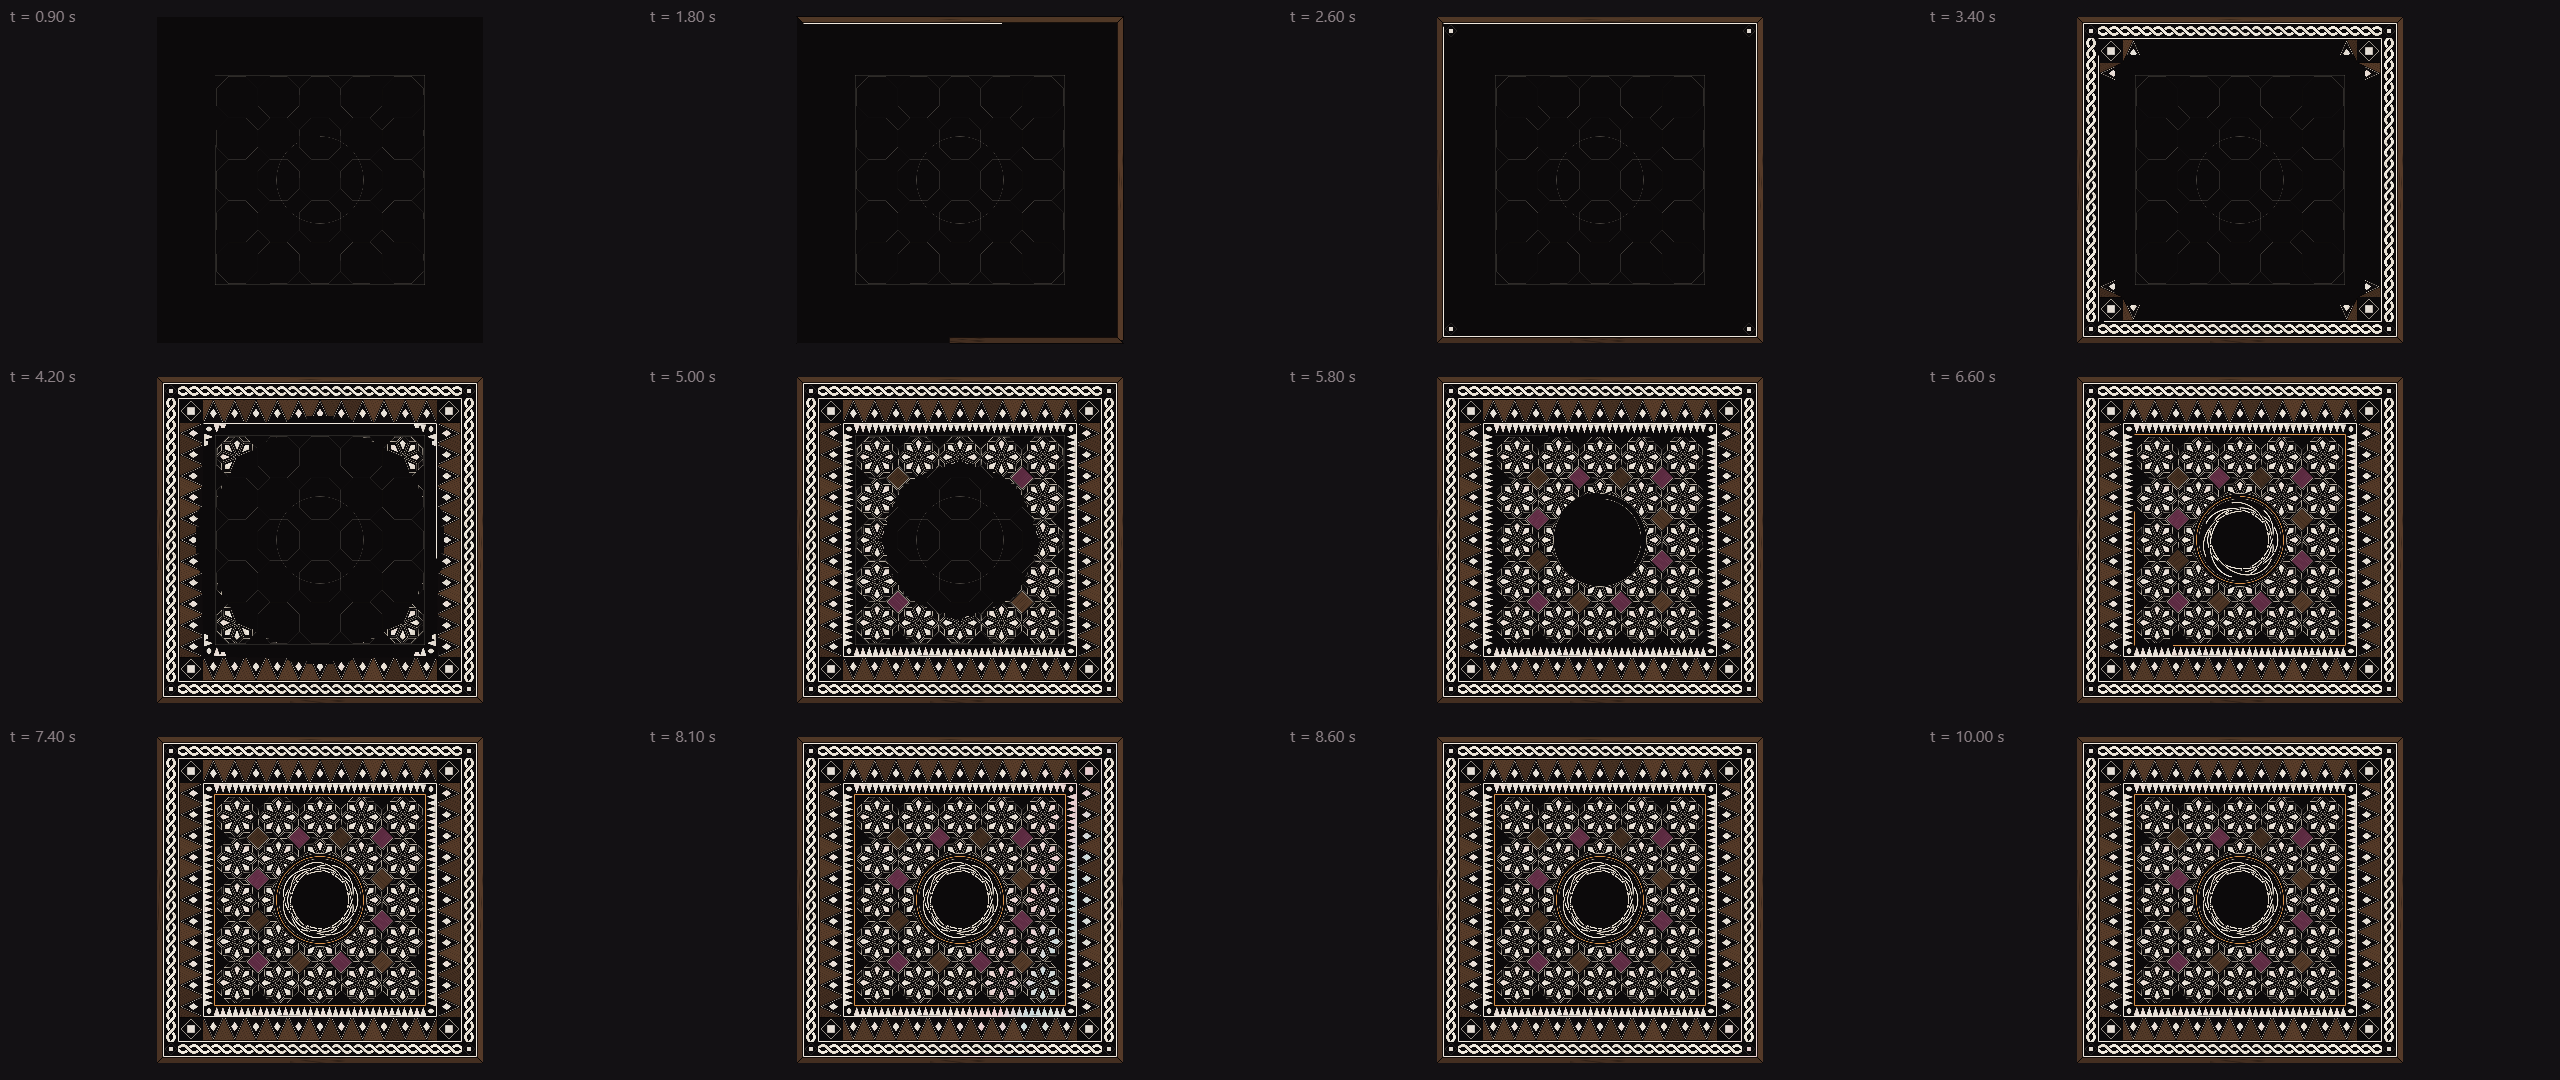
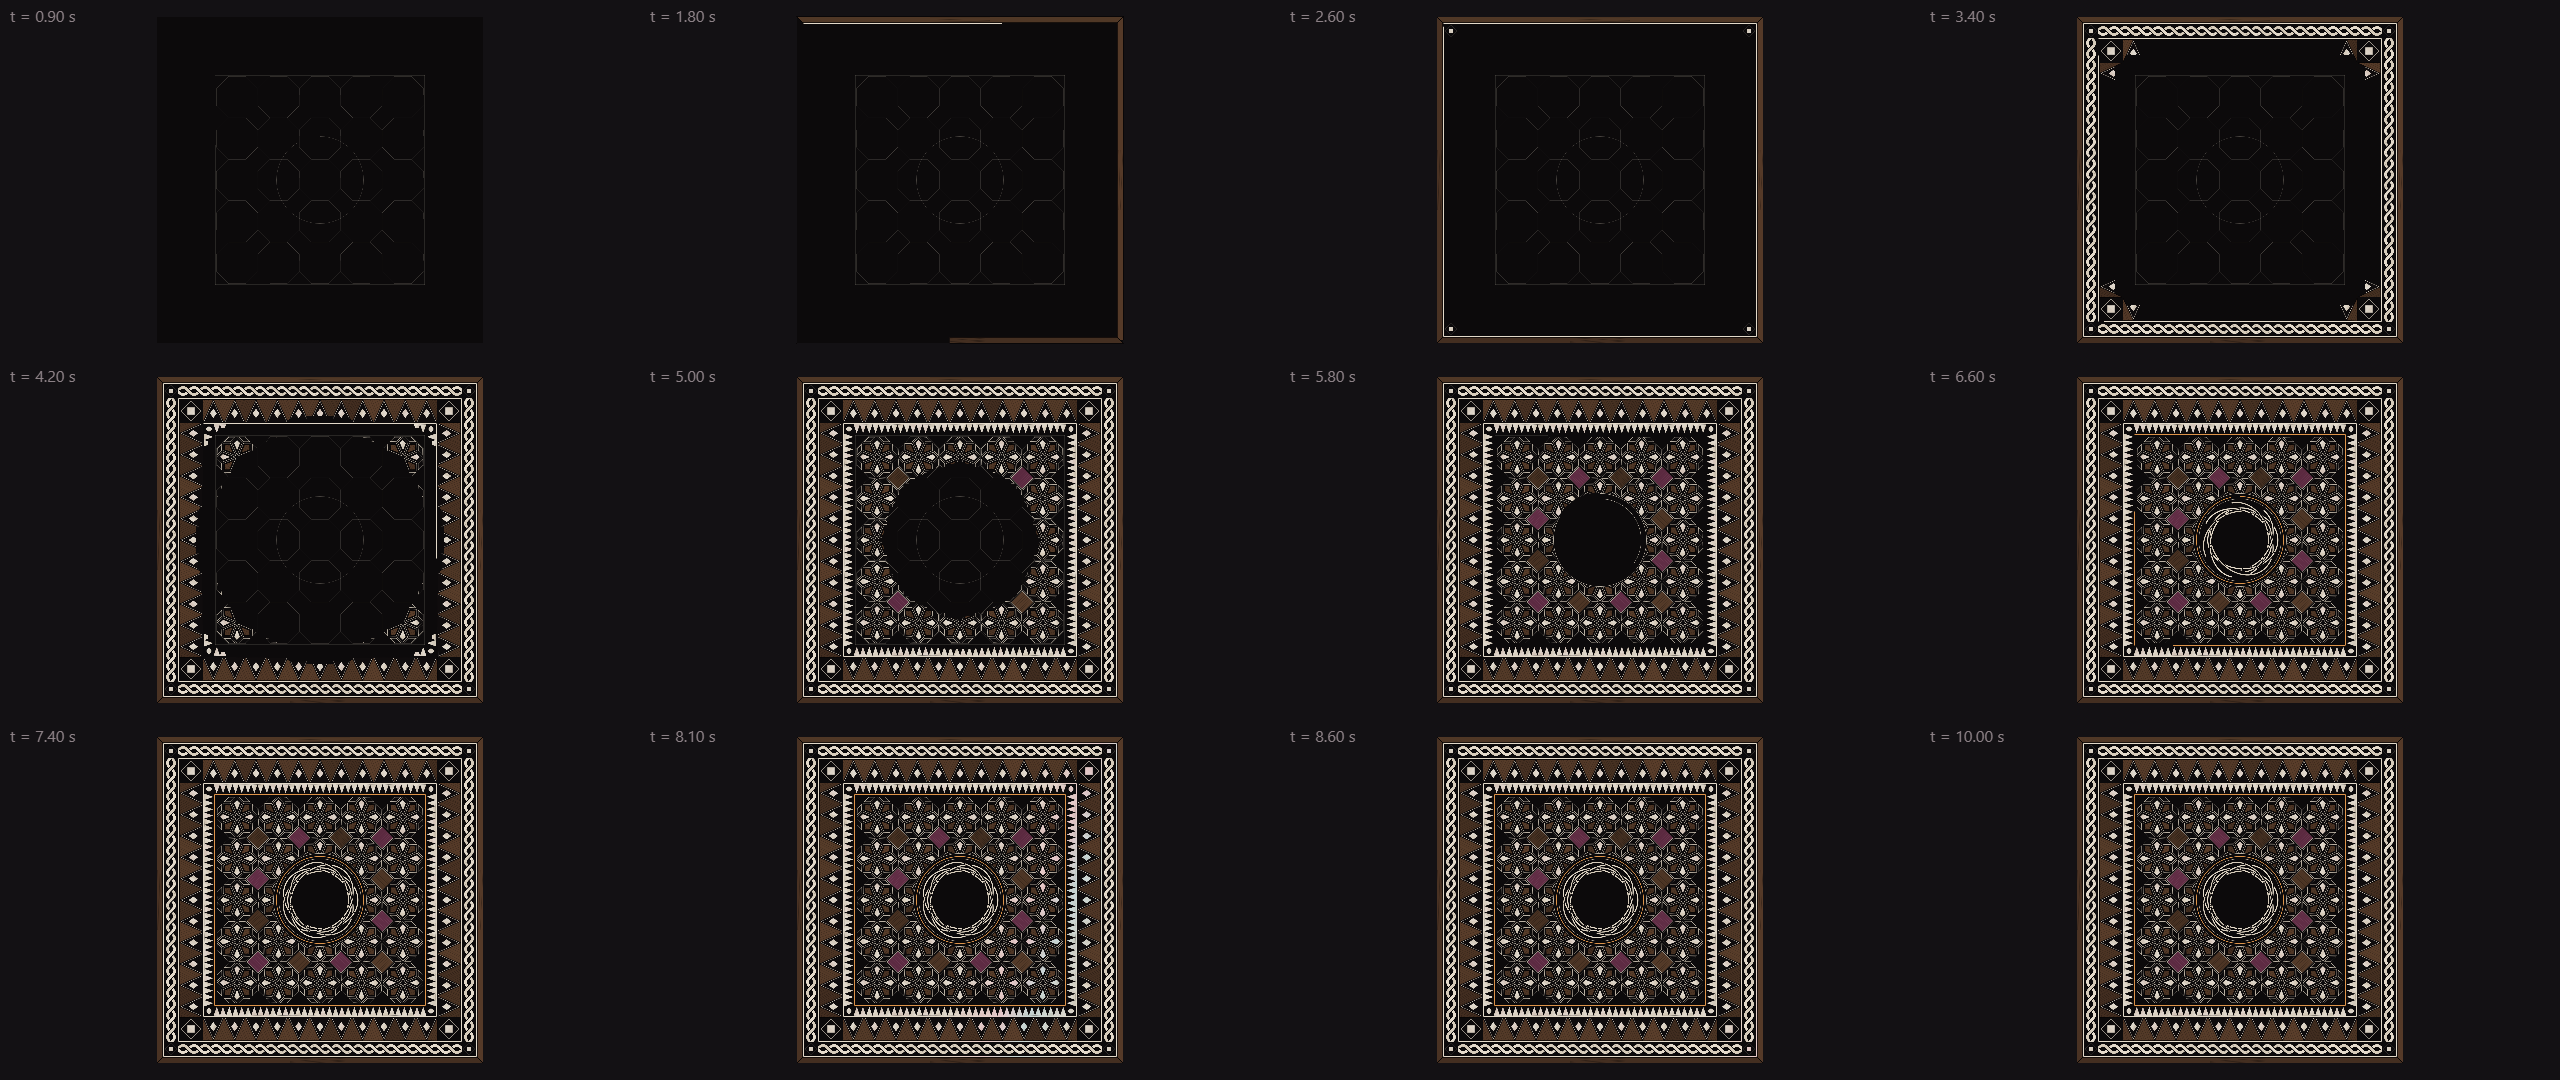
visuals: less white, warmer pearl; star kites alternate pearl and walnut again

Changed region(s): [[0.8438, 0.4278, 0.9062, 0.4583], [0.5938, 0.4278, 0.6562, 0.4583]]

diff --git a/visuals/lib/panel.js b/visuals/lib/panel.js
@@ -5,13 +5,13 @@
    Deterministic: render(t) depends only on t. Inspired by Damascene wood marquetry; geometry reconstructed by the designer. */
 (function (g) {
   var D = g.Damas, C = D.C, TAU = Math.PI * 2;
-  var GROUND = "#0C0A0B", PEARL = "#EFE8DC", WIRE = C.ambre, MASK = { on: false };
+  var GROUND = "#0C0A0B", PEARL = "#E4DAC9", WIRE = C.ambre, MASK = { on: false };
   var clamp = function (x) { return x < 0 ? 0 : x > 1 ? 1 : x; };
   var ease = function (x) { x = clamp(x); return 1 - Math.pow(1 - x, 4); };            // ease-out-quart for laying pieces
   var softOut = function (x) { x = clamp(x); return 1 - Math.pow(1 - x, 2); };         // gentler ease-out for the slow polish
 
   /* ---------- helpers ---------- */
-  function pearl(t) { var base = D.mixHex("#F3EDE3", "#E0D6C8", t); return t > 0.72 ? D.mixHex(base, "#EBD9D6", 0.45) : base; }
+  function pearl(t) { var base = D.mixHex("#E8DFD0", "#CBBFAD", t); return t > 0.72 ? D.mixHex(base, "#DCC8C4", 0.45) : base; }
   function poly(ctx, pts) { ctx.beginPath(); pts.forEach(function (p, i) { i ? ctx.lineTo(p[0], p[1]) : ctx.moveTo(p[0], p[1]); }); ctx.closePath(); }
   function inset(pts, d) {
     var n = pts.length, area = 0, i;
@@ -163,7 +163,8 @@
       add(prep({ layer: "field", key: Math.round(dist / 3), pts: p.pts, dir: d, draw: function (ctx) {
         ctx.save(); ctx.beginPath(); ctx.rect(-inner, -inner, 2 * inner, 2 * inner); ctx.clip();
         var o1 = inset(p.pts, 2.3), tone = p.tone;
-        if ((p.role === "walnut" && p.layer === 0) || p.role === "nacre") slab(ctx, inset(p.pts, 8), tone);
+        if (p.role === "nacre") slab(ctx, inset(p.pts, 8), tone);
+        else if (p.role === "walnut" && p.layer === 0) { fill(ctx, inset(p.pts, 6.5), "#3A281C"); wood(ctx, inset(p.pts, 6.5), "walnut", tone); }
         else if (p.layer === 1) { fill(ctx, o1, p.role === "prune" ? "#4B2036" : "#34241A"); wood(ctx, o1, p.role === "prune" ? "prune" : "walnut", tone); }
         hair(ctx, o1, "#B9B0A2", 1.1);
         ctx.restore();
@@ -192,7 +193,7 @@
     } });
 
     // the roundel and the mark
-    var r = 2.1 * S, nest = g.Nest.build(0, 0, (r - 17) / 108), NW = { w: Math.max(2.2, r * 0.026), gap: Math.max(1.6, r * 0.02), ground: GROUND, cols: [PEARL, "#E4DACB", PEARL, "#E4DACB", PEARL, "#E4DACB", PEARL] };
+    var r = 2.1 * S, nest = g.Nest.build(0, 0, (r - 17) / 108), NW = { w: Math.max(2.2, r * 0.026), gap: Math.max(1.6, r * 0.02), ground: GROUND, cols: [PEARL, "#D6CBB9", PEARL, "#D6CBB9", PEARL, "#D6CBB9", PEARL] };
     add({ layer: "disc", custom: true, draw: function (ctx, p) { if (MASK.on) return; ctx.save(); ctx.beginPath(); ctx.arc(0, 0, (r + 12) * p, 0, TAU); ctx.clip(); ctx.fillStyle = GROUND; ctx.fillRect(-r - 20, -r - 20, 2 * r + 40, 2 * r + 40); ctx.restore(); } });
     function ringArc(rad, col, w) { return function (ctx, p) { if (MASK.on || p <= 0) return; ctx.strokeStyle = col; ctx.lineWidth = w; ctx.beginPath(); ctx.arc(0, 0, rad, -Math.PI / 2, -Math.PI / 2 + TAU * p); ctx.stroke(); }; }
     add({ layer: "ring1", custom: true, draw: ringArc(r + 9, "#B9B0A2", 1.2) });
